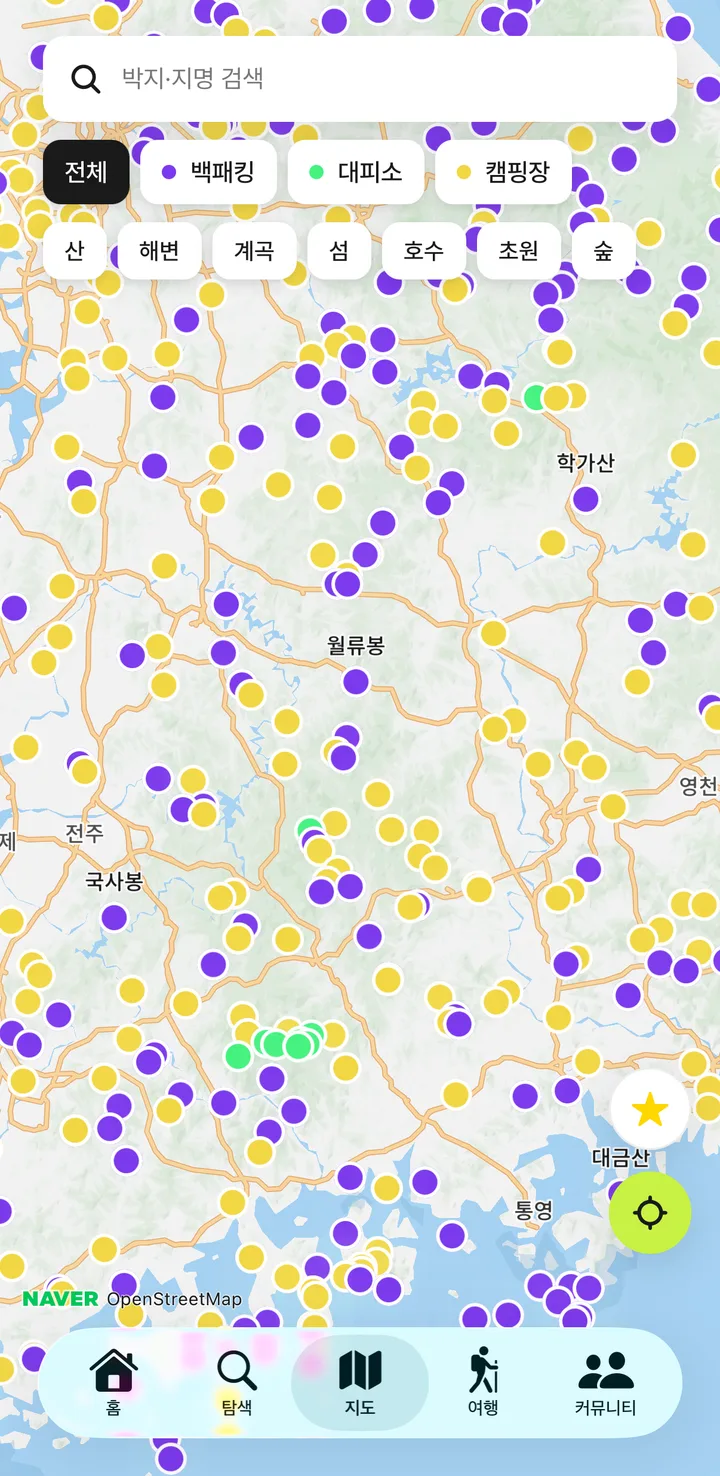
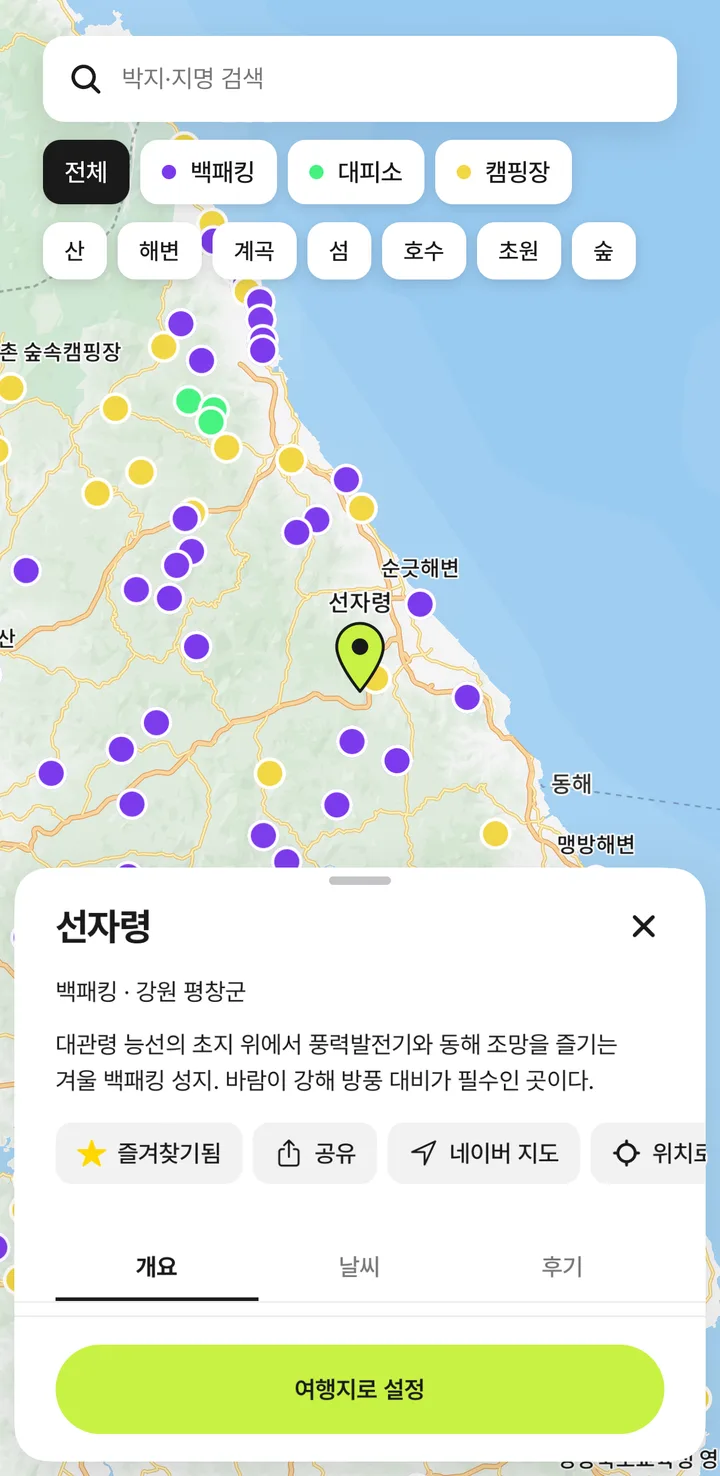
앱 소개 페이지 — 박지 스크린샷을 박지 상세 시트 화면으로 교체

diff --git a/src/app-intro/AppIntroView.tsx b/src/app-intro/AppIntroView.tsx
@@ -73,7 +73,7 @@ const AppIntroView: FC = () => {
             title='어디서 하룻밤 보낼지'
             description='전국의 백패킹 박지·대피소·캠핑장을 지도에서 찾아보세요.'
             screenshotName='explore'
-            screenshotAlt='박지 지도 화면 — 백패킹·대피소·캠핑장 위치를 유형별로 표시'
+            screenshotAlt='박지 지도 화면 — 선자령 박지의 소개와 날씨·후기, 여행지로 설정'
           />
           <AppIntroFeatureView
             label='커뮤니티'
